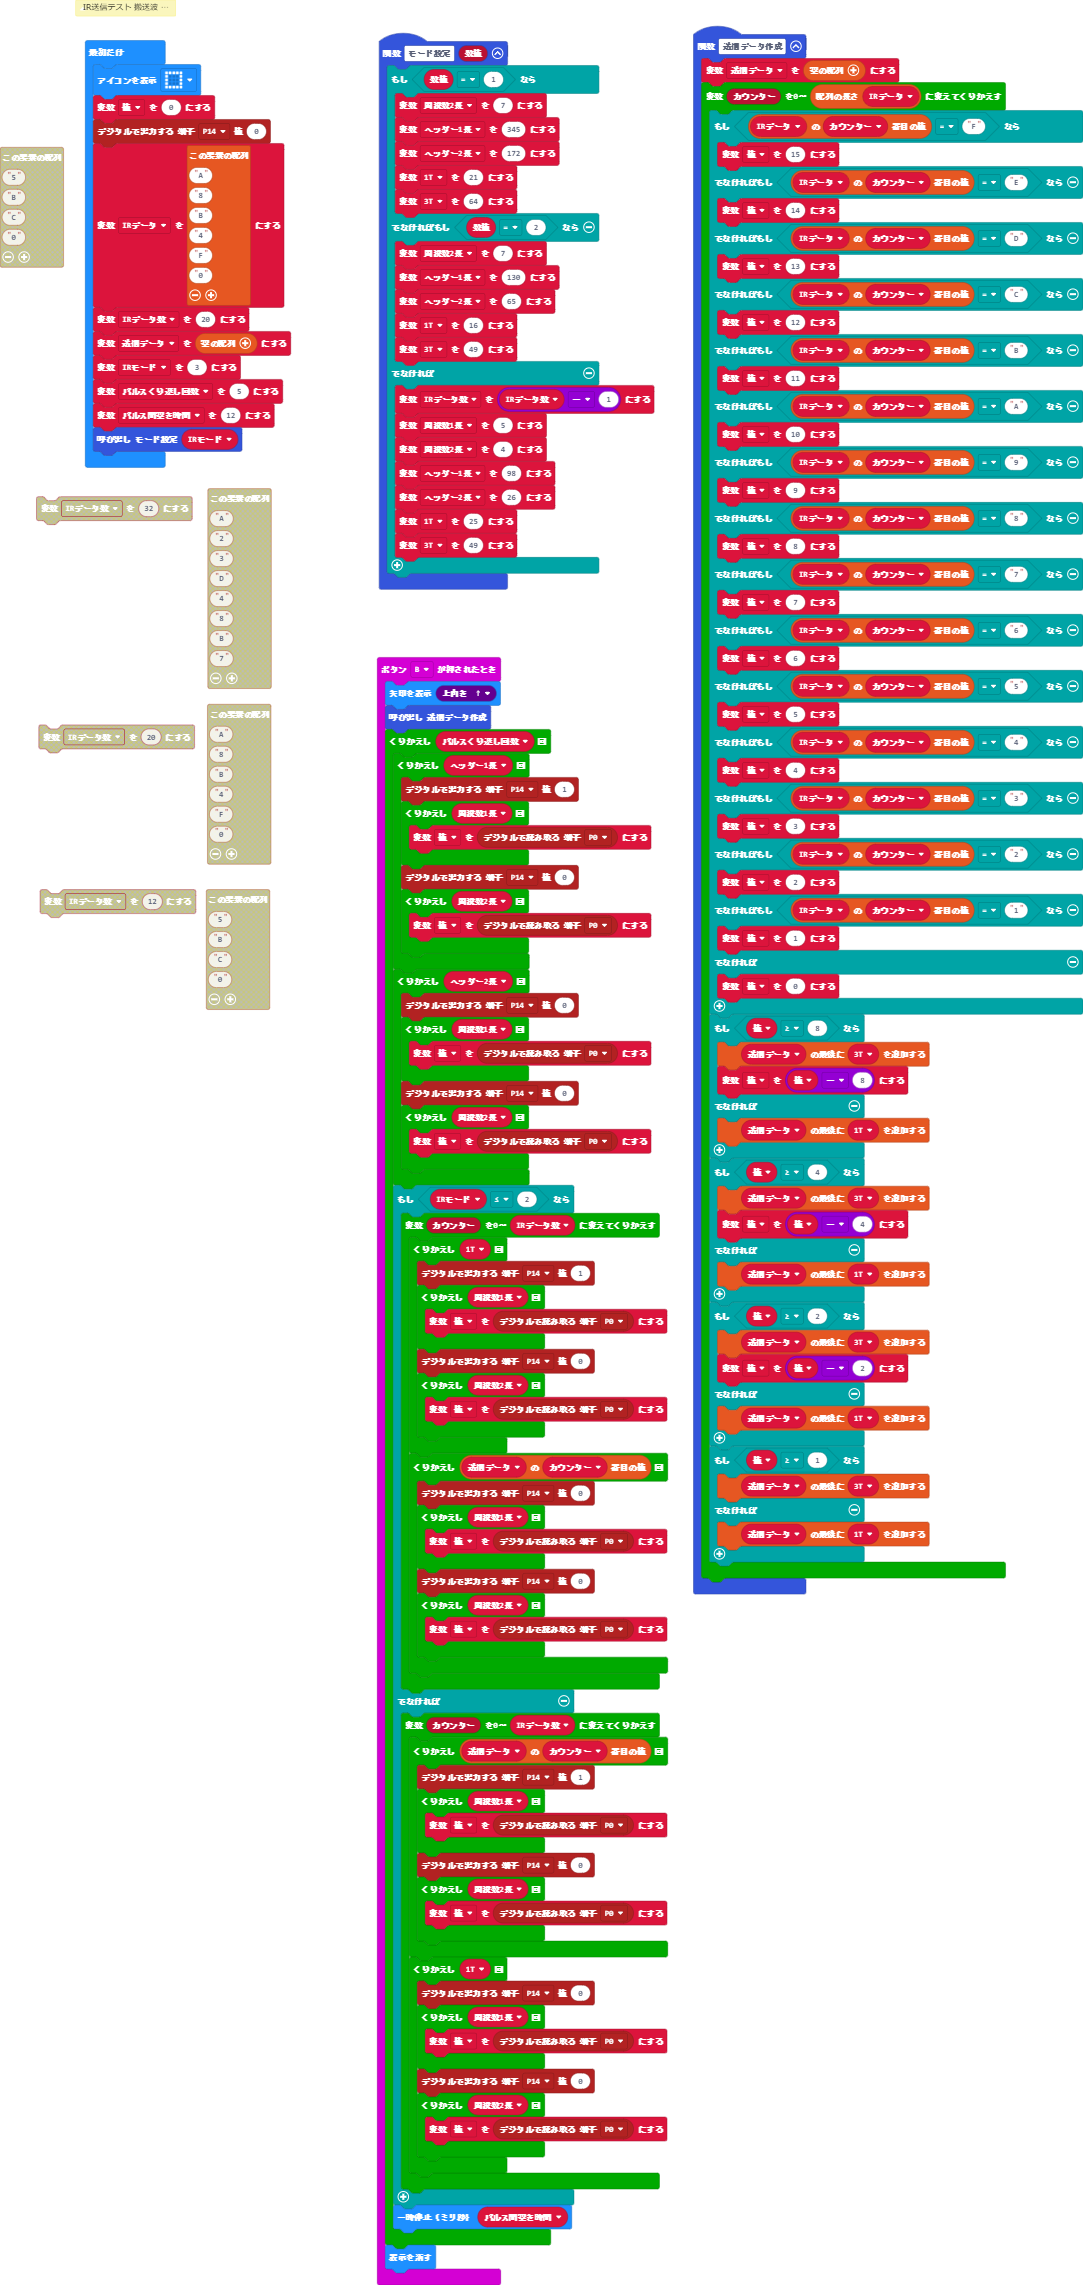
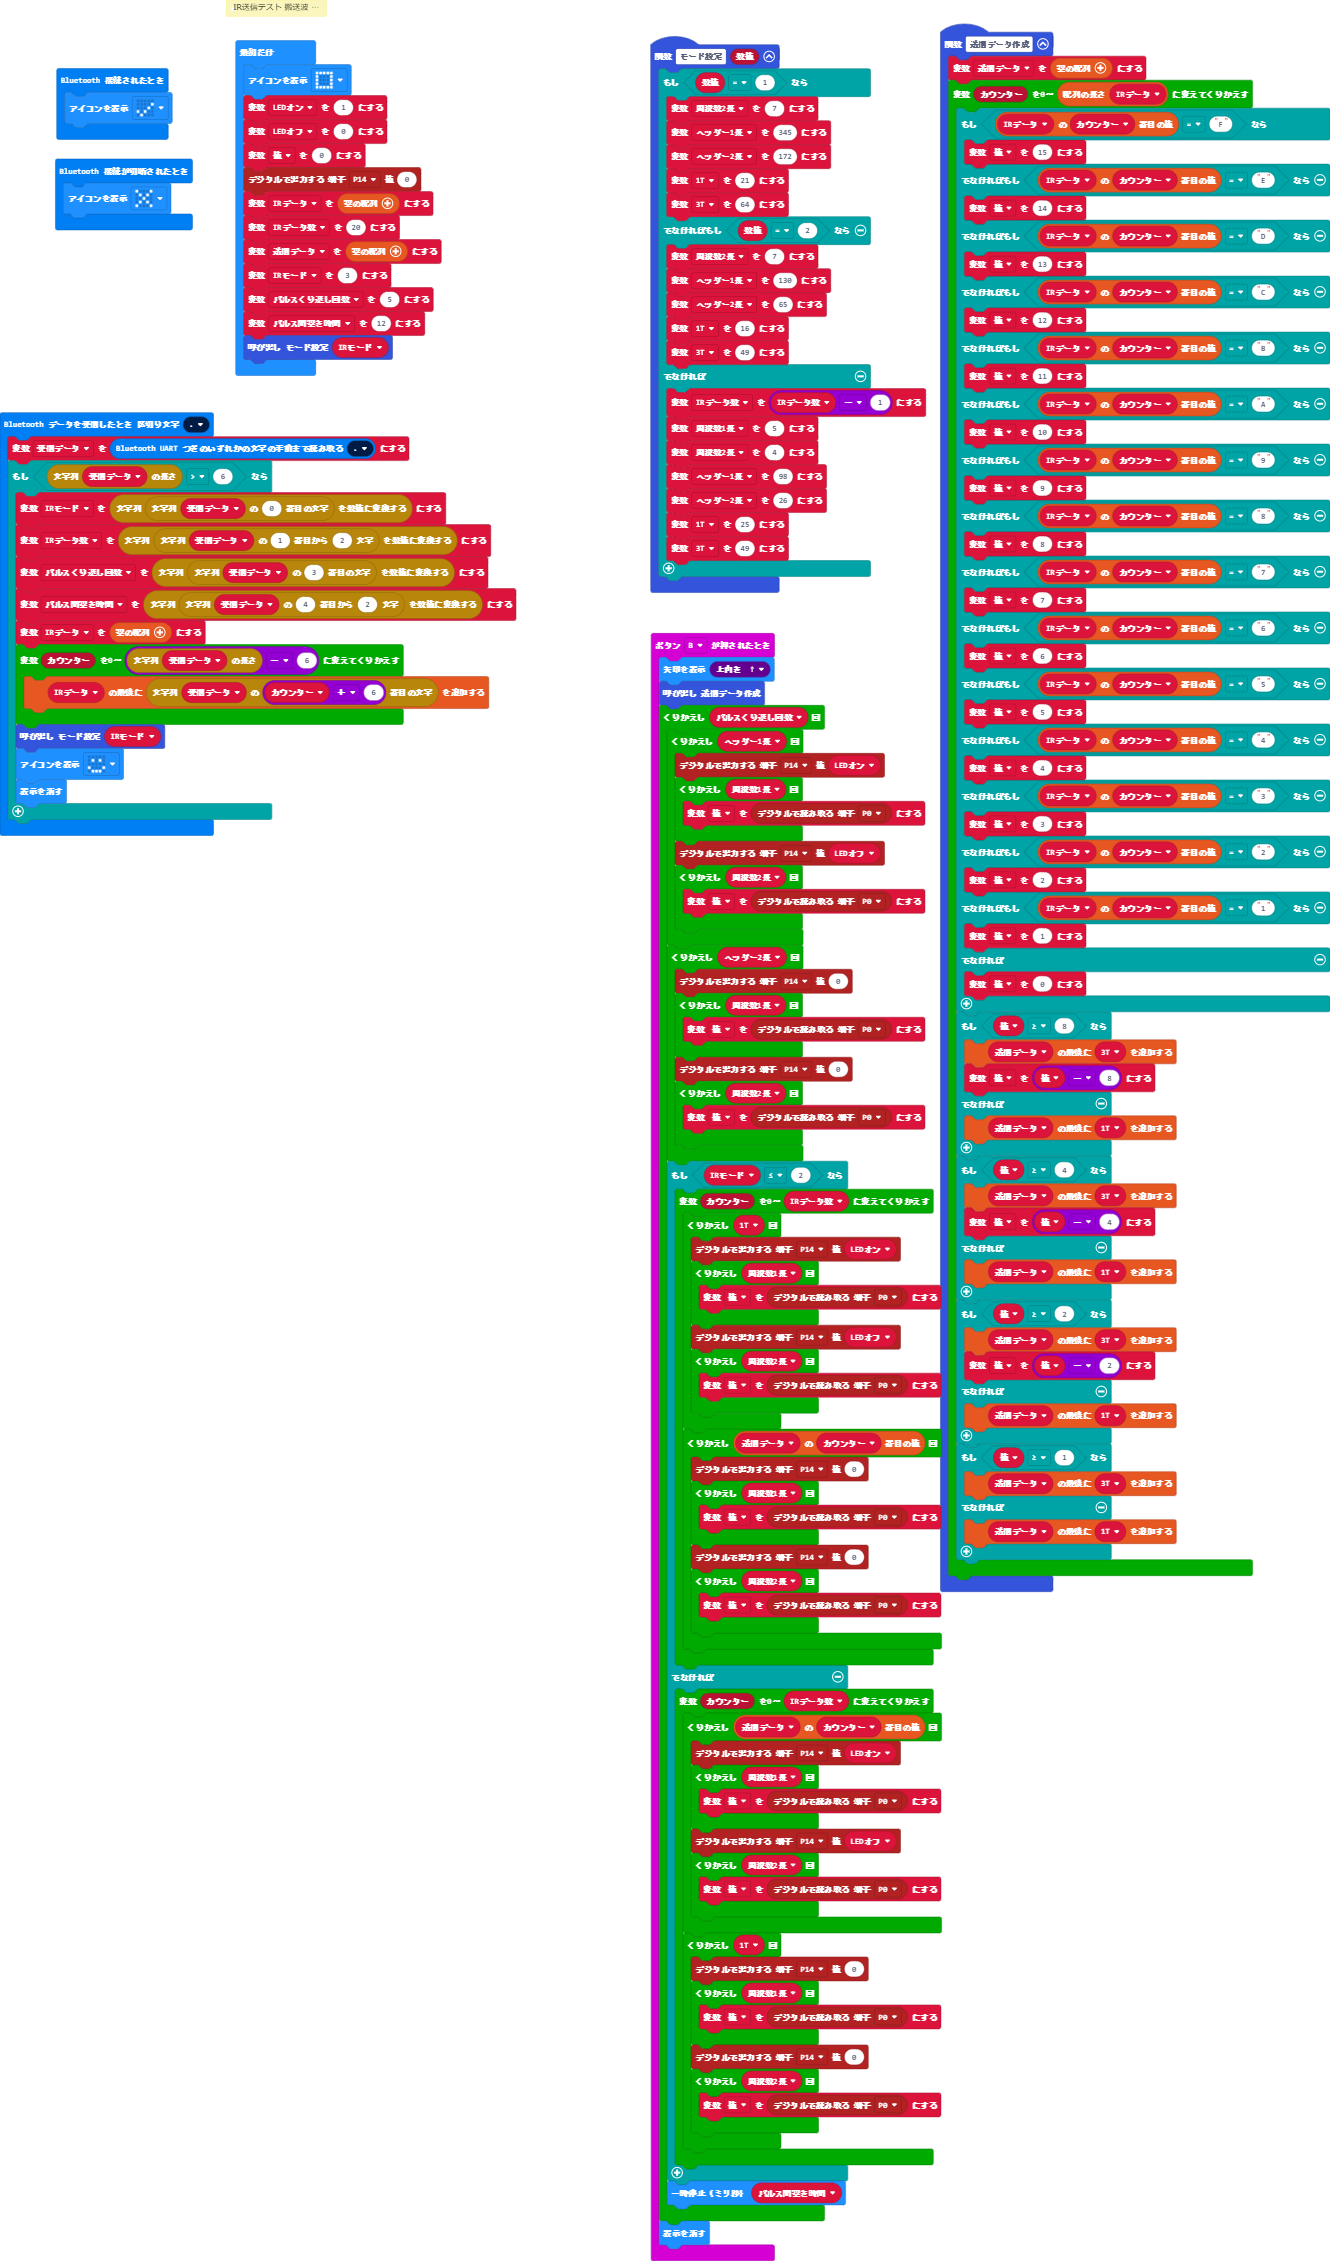
更新 main.blocks, main.ts

diff --git a/main.ts b/main.ts
@@ -21,16 +21,38 @@ function モード設定 (数値: number) {
         _3T = 49
     }
 }
+bluetooth.onBluetoothConnected(function () {
+    basic.showIcon(IconNames.Yes)
+})
+bluetooth.onBluetoothDisconnected(function () {
+    basic.showIcon(IconNames.No)
+})
+bluetooth.onUartDataReceived(serial.delimiters(Delimiters.Fullstop), function () {
+    受信データ = bluetooth.uartReadUntil(serial.delimiters(Delimiters.Fullstop))
+    if (受信データ.length > 6) {
+        IRモード = parseFloat(受信データ.charAt(0))
+        IRデータ数 = parseFloat(受信データ.substr(1, 2))
+        パルスくり返し回数 = parseFloat(受信データ.charAt(3))
+        パルス間空き時間 = parseFloat(受信データ.substr(4, 2))
+        IRデータ = []
+        for (let カウンター = 0; カウンター <= 受信データ.length - 6; カウンター++) {
+            IRデータ.push(受信データ.charAt(カウンター + 6))
+        }
+        モード設定(IRモード)
+        basic.showIcon(IconNames.Happy)
+        basic.clearScreen()
+    }
+})
 input.onButtonPressed(Button.B, function () {
     basic.showArrow(ArrowNames.North)
     送信データ作成()
     for (let index = 0; index < パルスくり返し回数; index++) {
         for (let index = 0; index < ヘッダー1長; index++) {
-            pins.digitalWritePin(DigitalPin.P14, 1)
+            pins.digitalWritePin(DigitalPin.P14, LEDオン)
             for (let index = 0; index < 周波数1長; index++) {
                 値 = pins.digitalReadPin(DigitalPin.P0)
             }
-            pins.digitalWritePin(DigitalPin.P14, 0)
+            pins.digitalWritePin(DigitalPin.P14, LEDオフ)
             for (let index = 0; index < 周波数2長; index++) {
                 値 = pins.digitalReadPin(DigitalPin.P0)
             }
@@ -48,11 +70,11 @@ input.onButtonPressed(Button.B, function () {
         if (IRモード <= 2) {
             for (let カウンター = 0; カウンター <= IRデータ数; カウンター++) {
                 for (let index = 0; index < _1T; index++) {
-                    pins.digitalWritePin(DigitalPin.P14, 1)
+                    pins.digitalWritePin(DigitalPin.P14, LEDオン)
                     for (let index = 0; index < 周波数1長; index++) {
                         値 = pins.digitalReadPin(DigitalPin.P0)
                     }
-                    pins.digitalWritePin(DigitalPin.P14, 0)
+                    pins.digitalWritePin(DigitalPin.P14, LEDオフ)
                     for (let index = 0; index < 周波数2長; index++) {
                         値 = pins.digitalReadPin(DigitalPin.P0)
                     }
@@ -71,11 +93,11 @@ input.onButtonPressed(Button.B, function () {
         } else {
             for (let カウンター = 0; カウンター <= IRデータ数; カウンター++) {
                 for (let index = 0; index < 送信データ[カウンター]; index++) {
-                    pins.digitalWritePin(DigitalPin.P14, 1)
+                    pins.digitalWritePin(DigitalPin.P14, LEDオン)
                     for (let index = 0; index < 周波数1長; index++) {
                         値 = pins.digitalReadPin(DigitalPin.P0)
                     }
-                    pins.digitalWritePin(DigitalPin.P14, 0)
+                    pins.digitalWritePin(DigitalPin.P14, LEDオフ)
                     for (let index = 0; index < 周波数2長; index++) {
                         値 = pins.digitalReadPin(DigitalPin.P0)
                     }
@@ -166,6 +188,7 @@ function 送信データ作成 () {
  * 
  * ループ回数12＝28us、36KHz
  */
+let 受信データ = ""
 let 周波数1長 = 0
 let _3T = 0
 let _1T = 0
@@ -179,17 +202,14 @@ let 送信データ: number[] = []
 let IRデータ数 = 0
 let IRデータ: string[] = []
 let 値 = 0
+let LEDオフ = 0
+let LEDオン = 0
 basic.showIcon(IconNames.Square)
+LEDオン = 1
+LEDオフ = 0
 値 = 0
 pins.digitalWritePin(DigitalPin.P14, 0)
-IRデータ = [
-"A",
-"8",
-"B",
-"4",
-"F",
-"0"
-]
+IRデータ = []
 IRデータ数 = 20
 送信データ = []
 IRモード = 3
